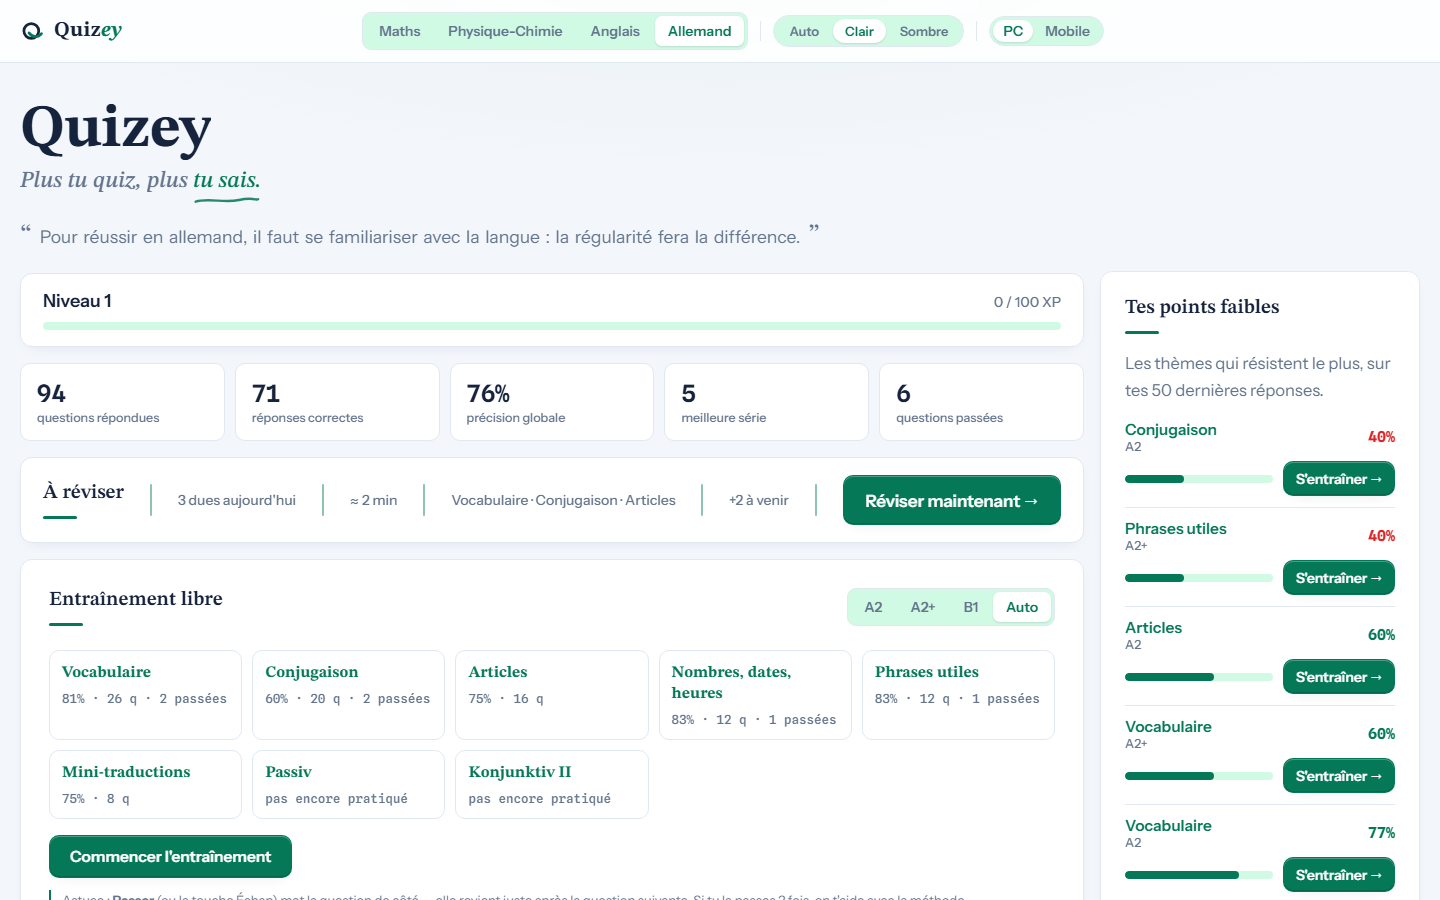
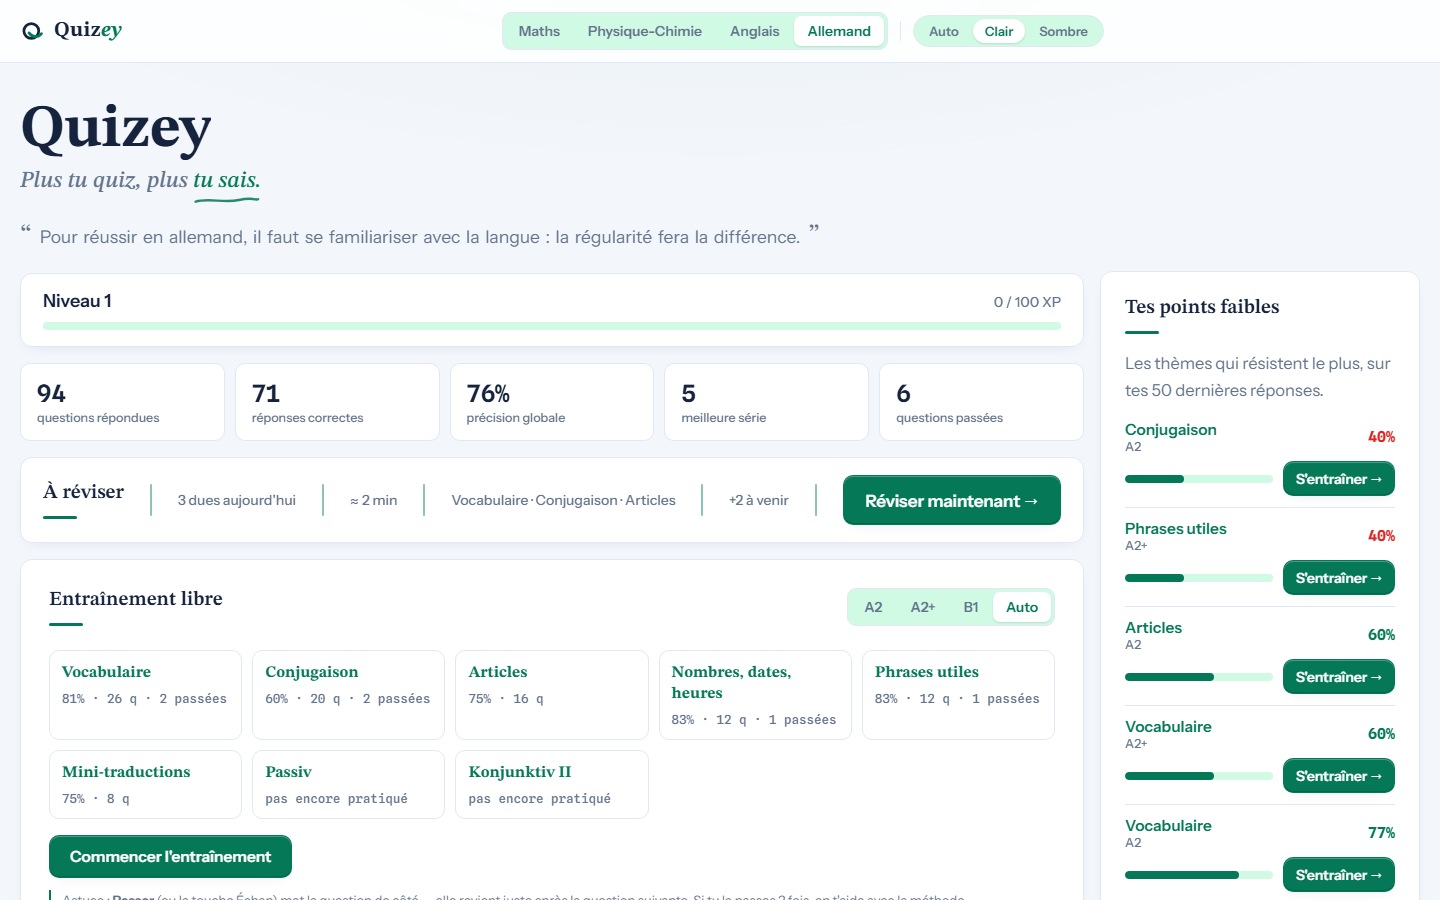
Basculeur PC/mobile retiré + design téléphone fluide + README téléphone + captures PC (Cid)
- Quizey.html : le basculeur « PC / Mobile » et la bannière « version téléphone »
  sont supprimés (désormais obsolètes) — la détection automatique reste en place.
  Le CSS téléphone passe en proportions FLUIDES clamp(min, Xvw, max) : l'interface
  échelonne maintenant de 320 px à 768 px au lieu de rester figée en pixels ;
  le sélecteur matière passe en grille 2×2 → « Physique-Chimie » tient sur une
  ligne et le débordement horizontal à 320 px a disparu.
- README : la section « Installation » gagne une partie « Sur téléphone / tablette »
  (PWA — iPhone/iPad via Safari, Android via Chrome).
- _qz_verify.js : la section [17] ne teste plus la bascule manuelle (bannière retirée),
  elle couvre la détection auto + la persistance qz_ui.
- img/ : les 4 captures du README sont régénérées (1440×900, version PC).

278 tests passent.

Changed region(s): [[0.4062, 0.0, 0.75, 0.0622], [0.25, 0.0, 0.375, 0.0622]]

diff --git a/Quizey.html b/Quizey.html
@@ -27,8 +27,8 @@
    Lit les choix sauvegardés (clés qz_theme / qz_subject / qz_ui, anciennes clés cz_* en
    secours — la migration complète vit dans le gros script) et pose sur <html> les
    attributs data-theme, data-mat (violet PC / vert DE / rouge EN) et data-ui="m" (version
-   téléphone — le CSS html[data-ui="m"] fait le reste). Le gros script en bas ne fait
-   que brancher les boutons. Pose aussi lang="fr" sur <html> : le fichier est un
+   téléphone — le CSS html[data-ui="m"] fait le reste). Le gros script en bas applique
+   la version détectée. Pose aussi lang="fr" sur <html> : le fichier est un
    fragment sans balise <html>, on ne restructure pas — l'attribut suffit pour les
    lecteurs d'écran. (Intentionnel : PAS de doctype — le CSS est calé en quirks mode.) */
 (function(){var r=document.documentElement;r.setAttribute("lang","fr");function K(n){try{var v=localStorage.getItem("qz_"+n);if(v===null)v=localStorage.getItem("cz_"+n);return v;}catch(e){return null;}}try{var v=K("theme");var t=v?JSON.parse(v):"auto";if(t==="light"||t==="dark"){r.setAttribute("data-theme",t);}else{r.removeAttribute("data-theme");}}catch(e){}try{var m=JSON.parse(K("subject"));if(m==="pc"){r.setAttribute("data-mat","pc");}else if(m==="de"){r.setAttribute("data-mat","de");}else if(m==="en"){r.setAttribute("data-mat","en");}}catch(e){}try{var u=JSON.parse(K("ui"));if(u==="m"){r.setAttribute("data-ui","m");}}catch(e){}})();</script>
@@ -832,41 +832,28 @@ html.boot .subcard{animation:rvIn .7s var(--ease) both;animation-delay:calc((.95
    [data-ui="m"] = plus de spécificité que le reste du fichier → ces règles
    gagnent sans !important (même celles des @media ci-dessus).
    Moteur, stats, matières : INCHANGÉS — seul l'affichage change. */
-html[data-ui="m"] body{font-size:17px}
-/* Bannière « version téléphone » (1er passage auto) : fine, discrète, fermable. */
-#uiBanner{background:var(--surface);border-bottom:1px solid var(--line)}
-#uiBanner .ui-banner{display:flex;align-items:center;justify-content:space-between;gap:10px 14px;flex-wrap:wrap;padding-top:10px;padding-bottom:10px}
-#uiBanner .ui-banner-txt{font-size:14px;color:var(--muted)}
-#uiBanner .ui-banner-txt b{color:var(--ink)}
-#uiBanner .ui-x{padding:12px 14px;font-size:16px;line-height:1.2}
-/* Bouton de bascule 🖥/📱 (même pilule que les boutons de thème). */
-.ui-btn{
-  appearance:none;border:0;background:transparent;cursor:pointer;
-  font:600 14px/1 var(--f-body);color:var(--muted);border-radius:999px;padding:4px 10px;
-  transition:color .16s var(--ease),background .16s var(--ease),box-shadow .16s var(--ease);
-}
-.ui-btn.on{background:var(--surface);color:var(--accent);box-shadow:0 1px 2px rgba(31,46,71,.14)}
-/* ---- Topbar : basculeur matière sur sa ligne, en 3 GROS boutons ---- */
+html[data-ui="m"] body{font-size:clamp(16px,4.8vw,19px)}
+/* ---- Topbar : basculeur matière en grille 2×2 (GROS boutons, « Physique-Chimie »
+   tient sur UNE ligne grâce au min-width:0 — plus de débordement à 320 px) ---- */
 html[data-ui="m"] .topbar .wrap{flex-wrap:wrap;row-gap:10px}
 html[data-ui="m"] body:has(#home:not([hidden])) .topbar .wrap{padding-right:20px}
-html[data-ui="m"] .topbar .seg{display:flex;width:100%}
-html[data-ui="m"] .topbar .seg .seg-btn{flex:1 1 0;padding:11px 8px;font-size:15px}
-/* Topbar : cibles tactiles ≥ 44 px (thème + bascule 🖥/📱 étaient à 29 px). */
-html[data-ui="m"] .theme-btn{padding:14px 15px;font-size:14px}
-html[data-ui="m"] .ui-btn{padding:15px 16px;font-size:14px}
+html[data-ui="m"] .topbar .seg{display:flex;width:100%;flex-wrap:wrap;row-gap:clamp(6px,2vw,10px)}
+html[data-ui="m"] .topbar .seg .seg-btn{flex:1 1 42%;min-width:0;padding:clamp(10px,3vw,14px) 10px;font-size:clamp(14px,3.8vw,16px)}
+/* Topbar : cibles tactiles ≥ 44 px (boutons de thème). */
+html[data-ui="m"] .theme-btn{padding:clamp(12px,3.4vw,16px) clamp(13px,3.8vw,18px);font-size:clamp(14px,3.8vw,15.5px)}
 /* ---- Accueil : TOUJOURS une colonne (même ≥1025 px : le mode est explicite) ---- */
 html[data-ui="m"] #home{display:block}
 html[data-ui="m"] #revSlot,html[data-ui="m"] #lvlSlot,html[data-ui="m"] .statgrid{width:100%}
-html[data-ui="m"] .margewrap{position:static;display:grid;grid-template-columns:1fr;gap:16px;align-items:start;margin-top:0}
+html[data-ui="m"] .margewrap{position:static;display:grid;grid-template-columns:1fr;gap:clamp(14px,3.6vw,20px);align-items:start;margin-top:0}
 /* Hero un peu plus resserré pour une main de poche. */
-html[data-ui="m"] h1{font-size:clamp(34px,9vw,44px);margin-top:24px}
+html[data-ui="m"] h1{font-size:clamp(34px,9vw,44px);margin-top:clamp(20px,5.5vw,32px)}
 html[data-ui="m"] .slogan{font-size:clamp(18px,4.6vw,21px)}
-html[data-ui="m"] .lede{font-size:16px}
+html[data-ui="m"] .lede{font-size:clamp(15.5px,4.4vw,17.5px)}
 /* Stats en grille 2×3 (5 stats) plutôt qu'en auto-fit. */
 html[data-ui="m"] .statgrid{grid-template-columns:repeat(2,minmax(0,1fr))}
 /* Tuiles de thèmes : 2 colonnes larges, plus hautes à toucher. */
-html[data-ui="m"] .subgrid{grid-template-columns:repeat(2,minmax(0,1fr));gap:12px}
-html[data-ui="m"] .subcard{padding:14px}
+html[data-ui="m"] .subgrid{grid-template-columns:repeat(2,minmax(0,1fr));gap:clamp(10px,2.8vw,16px)}
+html[data-ui="m"] .subcard{padding:clamp(13px,3.6vw,18px)}
 /* Panneau « Par thème » : la grille 4 colonnes (nom 1fr + colonnes fixes
    56/73,6/62,4 px + 3 gaps de 8 px) laisse MOINS que la largeur min-content
    du nom sur un téléphone : l'item de grille refuse de rétrécir (min-width
@@ -876,27 +863,27 @@ html[data-ui="m"] .subcard{padding:14px}
    seul qui rétrécit (ellipsis), jamais un débordement. */
 html[data-ui="m"] .substathead,html[data-ui="m"] .substatrow{grid-template-columns:minmax(0,1fr) 3rem 4.4rem 3.4rem;gap:6px}
 html[data-ui="m"] .substathead span,html[data-ui="m"] .substatrow b{min-width:0;overflow:hidden;text-overflow:ellipsis;white-space:nowrap}
-/* Boutons : cibles ≥44 px, texte plus lisible. */
-html[data-ui="m"] .btn{padding:14px 22px;font-size:16.5px}
-html[data-ui="m"] .btn.small{padding:13px 16px;font-size:14.5px}
-html[data-ui="m"] .seg-btn{padding:14px 14px;font-size:15px}
+/* Boutons : cibles ≥44 px, texte plus lisible — tailles FLUIDES (clamp min→max). */
+html[data-ui="m"] .btn{padding:clamp(13px,3.4vw,16px) clamp(20px,5.2vw,26px);font-size:clamp(16px,4.2vw,18px)}
+html[data-ui="m"] .btn.small{padding:clamp(11px,3vw,15px) clamp(14px,3.8vw,18px);font-size:clamp(14px,3.8vw,15.5px)}
+html[data-ui="m"] .seg-btn{padding:clamp(12px,3.4vw,16px);font-size:clamp(14.5px,4vw,16.5px)}
 /* Tête « Entraînement libre » : sur téléphone, les sélecteurs passent sous le
    titre (pleine largeur) et leurs boutons peuvent REPLIER sur 2 lignes si la
    largeur est trop petite — mieux vaut 2 lignes qu'un débordement. */
 html[data-ui="m"] .lead-head{flex-direction:column;align-items:stretch}
 html[data-ui="m"] .picks{align-items:stretch}
 html[data-ui="m"] .picks .seg{width:100%;justify-content:center;flex-wrap:wrap;row-gap:3px}
-html[data-ui="m"] .xopt{padding:14px 14px;font-size:15px}
+html[data-ui="m"] .xopt{padding:clamp(12px,3.4vw,16px);font-size:clamp(14.5px,4vw,16px)}
 html[data-ui="m"] .xopt input{width:18px;height:18px}
 /* « À réviser » : cellules empilées, séparateurs plume masqués, bouton pleine largeur. */
-html[data-ui="m"] .hero .revcta{flex-direction:column;align-items:flex-start;justify-content:flex-start;gap:12px}
+html[data-ui="m"] .hero .revcta{flex-direction:column;align-items:flex-start;justify-content:flex-start;gap:clamp(10px,2.8vw,16px)}
 html[data-ui="m"] .hero .revcta .revsep{display:none}
 html[data-ui="m"] .hero .revcta .btn{width:100%}
 /* ---- Écran de question : agrandi pour le pouce ---- */
 html[data-ui="m"] .prompt{font-size:clamp(22px,4.6vw,26px)}
-html[data-ui="m"] .ans input{height:48px;width:100%;font-size:18px}
-html[data-ui="m"] .ans .btn{height:48px;padding:0 20px;font-size:16px}
-html[data-ui="m"] .opt{padding:14px 16px}
+html[data-ui="m"] .ans input{height:clamp(46px,12.5vw,56px);width:100%;font-size:clamp(16px,4.4vw,19px)}
+html[data-ui="m"] .ans .btn{height:clamp(46px,12.5vw,56px);padding:0 clamp(18px,5vw,24px);font-size:clamp(15.5px,4.2vw,17px)}
+html[data-ui="m"] .opt{padding:clamp(12px,3.4vw,16px) clamp(14px,3.8vw,18px)}
 /* Tactile : manipulation = le navigateur ne cherche plus le double-tap « zoom »
    avant le tap → cibles réactives, pas de zoom parasite sur iOS/Android. */
 html[data-ui="m"] button,html[data-ui="m"] input{touch-action:manipulation}
@@ -919,11 +906,6 @@ html[data-ui="m"] button,html[data-ui="m"] input{touch-action:manipulation}
         <button type="button" class="theme-btn" data-theme-pick="light" title="Thème clair">Clair</button>
         <button type="button" class="theme-btn" data-theme-pick="dark" title="Thème sombre">Sombre</button>
       </div>
-      <span class="divider" aria-hidden="true"></span>
-      <div class="theme-seg" role="group" aria-label="Version (appareil)">
-        <button type="button" class="ui-btn" data-ui-pick="d" title="Version ordinateur" aria-label="Version ordinateur">PC</button>
-        <button type="button" class="ui-btn" data-ui-pick="m" title="Version téléphone" aria-label="Version téléphone">Mobile</button>
-      </div>
       <div class="chips" id="topStats" hidden>
         <span class="chip">score <b id="tScore">0</b></span>
         <span class="chip">série <b id="tStreak">0</b></span>
@@ -932,16 +914,6 @@ html[data-ui="m"] button,html[data-ui="m"] input{touch-action:manipulation}
     </div>
   </div>
 </header>
-
-<div id="uiBanner" hidden>
-  <div class="wrap ui-banner">
-    <span class="ui-banner-txt">📱 <b>Version téléphone activée</b> — l'interface est adaptée à un écran tactile. Tu peux revenir à la version ordinateur à tout moment.</span>
-    <div class="row" style="flex:none">
-      <button type="button" class="btn btn-ghost small" id="uiBannerSwitch">Version ordinateur</button>
-      <button type="button" class="btn btn-ghost small ui-x" id="uiBannerClose" aria-label="Fermer ce message">×</button>
-    </div>
-  </div>
-</div>
 
 <main class="wrap">
   <section id="home">
@@ -5445,7 +5417,9 @@ function applyTheme(t,animate){
    premier rendu par l'anti-flash → pas de flash de « mauvaise » version au
    chargement), clé qz_ui persistée, bascule IMMÉDIATE sans rechargement.
    Tout l'affichage vit dans le CSS html[data-ui="m"] (fin du <style>) ;
-   ici on détecte, on applique, on branche la bascule 🖥/📱 de la topbar.
+   ici on détecte l'appareil et on applique la version qui va avec.
+   (Le basculeur manuel 🖥/📱 + la bannière ont été retirés le 2026-08-25 :
+   l'app suit désormais l'appareil d'elle-même — installable / PWA.)
    Détection = HEURISTIQUE, pas de fièvre de user-agent : « téléphone » si
    pointer:coarse (le toucher est l'entrée principale) ET écran étroit
    (<900 px), OU user-agent mobile. Un vrai téléphone passe toujours l'un
@@ -5468,26 +5442,14 @@ function setUI(u){
   if(u==="m")r.setAttribute("data-ui","m");
   else r.removeAttribute("data-ui");
   store.set(UI_KEY,u);
-  document.querySelectorAll(".ui-btn").forEach(b=>b.classList.toggle("on",b.dataset.uiPick===u));
 }
 (function initUI(){
+  /* La version d'interface suit l'appareil (détection) — le basculeur manuel
+     🖥/📱 et la bannière ont été retirés (l'app est installable et s'adapte
+     d'elle-même). Le choix persisté (qz_ui) gagne toujours sur la détection. */
   const saved=store.get(UI_KEY,null);
-  let first=false;
   if(saved==="m"||saved==="d")setUI(saved);
-  else{setUI(detectUI());first=true;}
-  /* Bannière « version téléphone » : UNE SEULE fois, et seulement si la
-     détection a appliqué « m » tout seule (premier passage) — jamais après
-     un choix explicite de l'utilisateur, jamais en version ordinateur.
-     #uiBanner est [hidden] dans le HTML : sans JS, ou après un choix déjà
-     fait, elle reste invisible (le .btn y est donc branché uniquement ici). */
-  const b=document.querySelector("#uiBanner");
-  if(b&&first&&document.documentElement.getAttribute("data-ui")==="m"){
-    b.hidden=false;
-    const close=()=>{b.hidden=true;};
-    document.querySelector("#uiBannerClose").addEventListener("click",close);
-    document.querySelector("#uiBannerSwitch").addEventListener("click",()=>{setUI("d");close();});
-  }
-  document.querySelectorAll(".ui-btn").forEach(x=>x.addEventListener("click",()=>setUI(x.dataset.uiPick)));
+  else setUI(detectUI());
 })();
 /* ---------- Révélation en cascade (haut → bas) ----------
    La chorégraphie est 100 % CSS (bloc html.boot [data-rv]) : elle se joue

diff --git a/_qz_verify.js b/_qz_verify.js
@@ -50,9 +50,6 @@ function buildEnv(){
   const byId={};
   const chip=makeEl();chip._classes.add("chip");
   byId.tScore=makeEl();byId.tScore.closest=()=>chip;
-  /* Bannière « version téléphone » : [hidden] dans le HTML réel → la faire
-     correspondre ici, sinon les assertions « bannière cachée » casseraient. */
-  byId.uiBanner=makeEl({hidden:true});
   const document={
     documentElement:makeEl(),
     body:makeEl(),
@@ -60,7 +57,6 @@ function buildEnv(){
     querySelector(sel){const id=String(sel).replace(/^#/,"");if(byId[id])return byId[id];byId[id]=makeEl();return byId[id];},
     querySelectorAll(sel){
       if(sel===".theme-btn")return [tb.auto,tb.light,tb.dark];
-      if(sel===".ui-btn")return [makeEl({dataset:{uiPick:"d"}}),makeEl({dataset:{uiPick:"m"}})];
       if(sel===".seg-btn")return [makeEl({dataset:{lvl:"facile"}}),makeEl({dataset:{lvl:"moyen"}}),makeEl({dataset:{lvl:"difficile"}})];
       return [];
     },
@@ -563,7 +559,7 @@ console.log("\n[16] Suppression « Grandeurs cosmiques » — orphelines purgée
 }
 
 /* ========================================================= */
-console.log("\n[17] Version d'interface — détection, bascule, persistance (data-ui)");
+console.log("\n[17] Version d'interface — détection auto + persistance (data-ui), sans bascule manuelle");
 {
   const phone=(env)=>{env.sandbox.innerWidth=390;env.sandbox.matchMedia=q=>({matches:q.indexOf("coarse")>-1,media:q});env.sandbox.navigator={userAgent:"Mozilla/5.0 (iPhone; CPU iPhone OS 17_0 like Mac OS X) AppleWebKit/605.1.15 (KHTML, like Gecko) Version/17.0 Mobile/15E148 Safari/604.1"};};
   /* Appareil 1 — ORDINATEUR : souris fine, grand écran, UA desktop → « d ». */
@@ -574,7 +570,6 @@ console.log("\n[17] Version d'interface — détection, bascule, persistance (da
     ok("ordinateur → détecte « d » (version ordinateur)",vm.runInContext("detectUI()",ctx)==="d");
     ok("data-ui ABSENT de <html> (version ordinateur par défaut)",env.document.documentElement.getAttribute("data-ui")===null);
     ok("choix persisté sous qz_ui = \"d\"",lsData.get("qz_ui")==="\"d\"");
-    ok("bannière téléphone RESTÉE cachée",env.document.querySelector("#uiBanner").hidden===true);
   }
   /* Appareil 2 — TÉLÉPHONE : tactile + petit écran + UA mobile → « m ». */
   lsData.clear();
@@ -584,12 +579,6 @@ console.log("\n[17] Version d'interface — détection, bascule, persistance (da
     ok("téléphone → détecte « m » (version téléphone)",vm.runInContext("detectUI()",ctx)==="m");
     ok("data-ui=\"m\" posé sur <html>",env.document.documentElement.getAttribute("data-ui")==="m");
     ok("choix persisté sous qz_ui = \"m\"",lsData.get("qz_ui")==="\"m\"");
-    ok("bannière AFFICHÉE au 1er passage auto",env.document.querySelector("#uiBanner").hidden===false);
-    /* Depuis la bannière : « Version ordinateur » → bascule + fermeture. */
-    env.document.querySelector("#uiBannerSwitch").click();
-    ok("bannière → « Version ordinateur » : data-ui retiré",env.document.documentElement.getAttribute("data-ui")===null);
-    ok("bannière → « Version ordinateur » : qz_ui=\"d\" persisté",lsData.get("qz_ui")==="\"d\"");
-    ok("bannière → « Version ordinateur » : bannière fermée",env.document.querySelector("#uiBanner").hidden===true);
   }
   /* Appareil 3 — TABLETTE large : tactile MAIS ≥900 px + UA sans « Mobile » → « d ». */
   lsData.clear();
@@ -601,7 +590,7 @@ console.log("\n[17] Version d'interface — détection, bascule, persistance (da
     const ctx=runApp(env);
     ok("tablette large (1024 px, tactile, UA desktop) → reste « d »",vm.runInContext("detectUI()",ctx)==="d");
   }
-  /* Choix EXPLICITE : qz_ui présente → la détection ne décide plus ni ne rebannit. */
+  /* Choix EXPLICITE : qz_ui présente → la détection ne décide plus. */
   lsData.clear();
   lsData.set("qz_ui","\"m\"");
   {
@@ -609,7 +598,6 @@ console.log("\n[17] Version d'interface — détection, bascule, persistance (da
     env.sandbox.innerWidth=1440; /* grand écran, souris fine… */
     const ctx=runApp(env);
     ok("qz_ui=\"m\" sauvegardée → version téléphone RESTÉE (le choix gagne)",env.document.documentElement.getAttribute("data-ui")==="m");
-    ok("… mais la bannière NE se réaffiche PAS (choix explicite)",env.document.querySelector("#uiBanner").hidden===true);
   }
   /* STABILITÉ : basculer l'UI ne doit JAMAIS écrire dans les 4 stats. */
   lsData.clear();

diff --git a/README.md b/README.md
@@ -55,6 +55,15 @@ Téléchargez le fichier depuis la page [Releases](https://github.com/Cidbzh/Qui
 
 Une fois en votre possession, le fichier vous appartient : clé USB, médiathèque, labo du lycée (où que vous soyez, avec ou sans internet).
 
+**Sur téléphone / tablette**
+
+Quizey s'installe comme une application (PWA). Ouvrez le lien <https://cidbzh.github.io/Quizey/> depuis le navigateur de votre appareil, puis :
+
+- **iPhone / iPad (Safari)** : bouton **Partager** (la flèche dans un carré) → **Sur l'écran d'accueil** → **Ajouter**.
+- **Android (Chrome)** : menu **⋮** → **Installer l'application** (ou **Ajouter à l'écran d'accueil**).
+
+L'icône apparaît sur votre écran d'accueil et l'app s'ouvre plein écran, comme une vraie application. Vos réponses et votre niveau restent **sur votre appareil** : chaque élève part sur sa propre version vierge, personne d'autre ne voit ses stats.
+
 ## Licence
 
 MIT — voir le fichier `LICENSE`.
